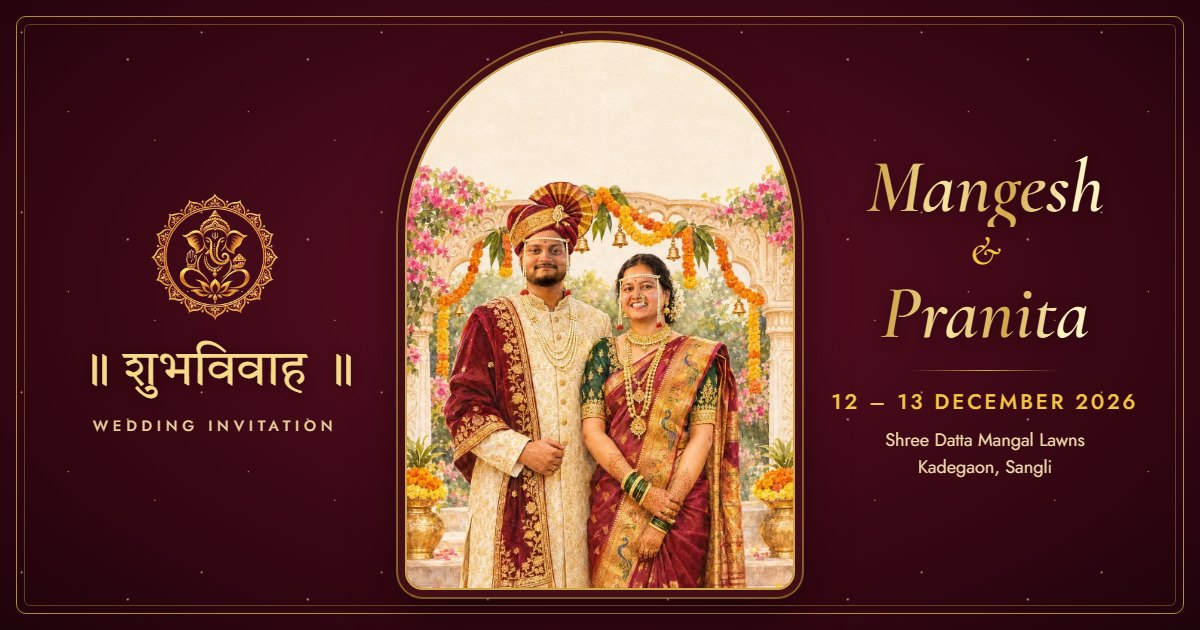
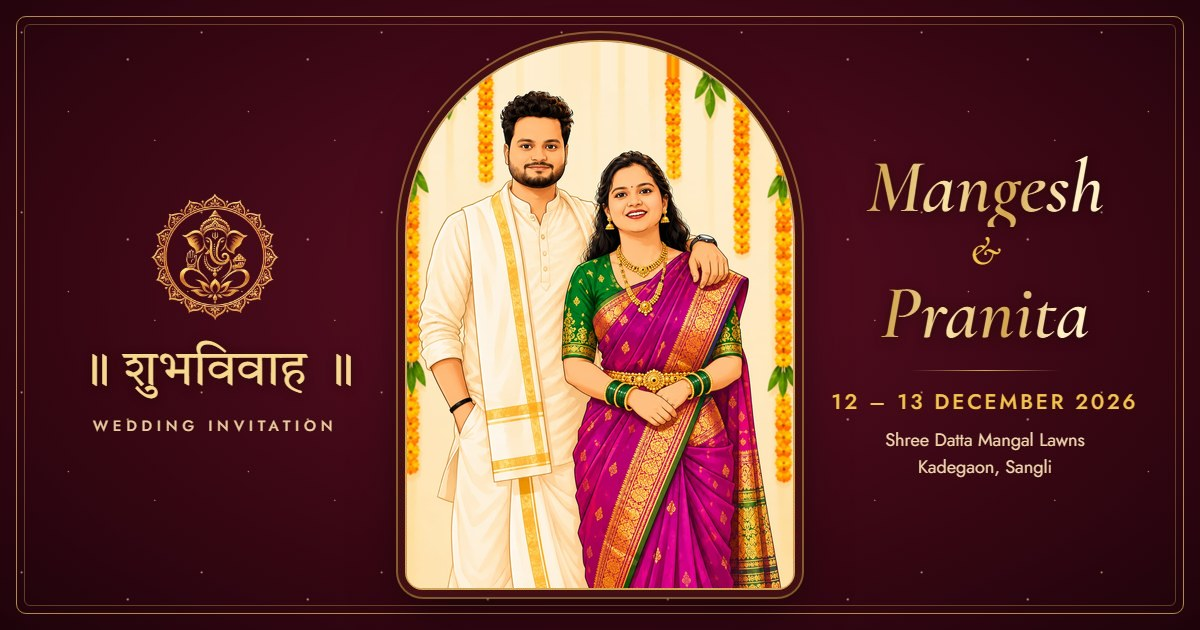
Swap couple photo for the new cartoon illustration everywhere
Hero, cover doors, showcase, footer circle and preview.jpg; og/twitter image cache-bust ?v=4; portrait ratio 1.70; drop CSS side garlands, add top fade; tuned footer crop and Ken Burns origin.

Claude-Session: https://claude.ai/code/session_015rcj17Yc5MohSb4XPMYcBe

Changed region(s): [[0.3392, 0.0603, 0.6783, 0.9349]]

diff --git a/index.html b/index.html
@@ -16,16 +16,16 @@
 <meta property="og:title" content="शुभविवाह · Mangesh &amp; Pranita">
 <meta property="og:description" content="You are warmly invited! 12–13 December 2026 • Shree Datta Mangal Lawns, Kadegaon, Sangli. Tap to open your invitation.">
 <meta property="og:url" content="https://vv8446931264-max.github.io/Mangesh-and-pranita/">
-<meta property="og:image" content="https://vv8446931264-max.github.io/Mangesh-and-pranita/preview.jpg">
-<meta property="og:image:secure_url" content="https://vv8446931264-max.github.io/Mangesh-and-pranita/preview.jpg">
+<meta property="og:image" content="https://vv8446931264-max.github.io/Mangesh-and-pranita/preview.jpg?v=4">
+<meta property="og:image:secure_url" content="https://vv8446931264-max.github.io/Mangesh-and-pranita/preview.jpg?v=4">
 <meta property="og:image:type" content="image/jpeg">
 <meta property="og:image:width" content="1200"><meta property="og:image:height" content="630">
-<meta property="og:image:alt" content="Mangesh and Pranita in traditional Marathi wedding attire, with the wedding dates">
+<meta property="og:image:alt" content="Illustration of Mangesh and Pranita in traditional Marathi wedding attire, with the wedding dates">
 <meta name="twitter:card" content="summary_large_image">
 <meta name="twitter:title" content="शुभविवाह · Mangesh &amp; Pranita">
 <meta name="twitter:description" content="You are warmly invited! 12–13 December 2026 • Shree Datta Mangal Lawns, Kadegaon, Sangli. Tap to open your invitation.">
-<meta name="twitter:image" content="https://vv8446931264-max.github.io/Mangesh-and-pranita/preview.jpg">
-<link rel="image_src" href="https://vv8446931264-max.github.io/Mangesh-and-pranita/preview.jpg">
+<meta name="twitter:image" content="https://vv8446931264-max.github.io/Mangesh-and-pranita/preview.jpg?v=4">
+<link rel="image_src" href="https://vv8446931264-max.github.io/Mangesh-and-pranita/preview.jpg?v=4">
 <link rel="icon" type="image/png" sizes="192x192" href="img/icon-192.png">
 <link rel="apple-touch-icon" href="img/icon-180.png">
 <link rel="preload" as="image" href="img/doors-tall.webp" media="(max-aspect-ratio: 11/10)">
@@ -80,7 +80,7 @@
   <div class="portrait-wrap">
     <i class="hglow" aria-hidden="true"></i>
     <div class="portrait">
-      <img src="img/couple-cut.webp" width="1024" height="1536" alt="Illustration of Mangesh and Pranita in traditional Marathi attire against marigold garlands" fetchpriority="high">
+      <img src="img/couple-cut.webp" width="1086" height="1448" alt="Illustration of Mangesh and Pranita in traditional Marathi attire against marigold garlands" fetchpriority="high">
       <i class="hveil" aria-hidden="true"></i>
     </div>
     <div class="ptxt">
@@ -177,7 +177,7 @@
   <div class="couple-showcase rv-scale">
     <div class="cs-tilt">
       <div class="cs-frame">
-        <img src="img/couple.webp" width="1024" height="1536" alt="Mangesh and Pranita" loading="lazy">
+        <img src="img/couple.webp" width="1086" height="1448" alt="Mangesh and Pranita" loading="lazy">
         <span class="cs-glare" aria-hidden="true"></span>
       </div>
     </div>
@@ -207,7 +207,7 @@
 </section>
 
 <footer>
-  <div class="ft-photo"><img class="footer-couple" src="img/couple.webp" width="120" height="180" alt="" loading="lazy"></div>
+  <div class="ft-photo"><img class="footer-couple" src="img/couple.webp" width="120" height="160" alt="" loading="lazy"></div>
   <p class="mr" style="color:var(--maroon);max-width:420px;margin:auto">तरी आपण सर्वांनी सहकुटुंब-सहपरिवार उपस्थित राहावे ही नम्र विनंती.</p>
   <p style="opacity:.75;margin-top:6px">Your presence will make our celebration complete.</p>
   <div class="nm goldtxt" id="signoff"></div>

diff --git a/css/style.css b/css/style.css
@@ -135,7 +135,7 @@ html.scrolled .scrollcue{opacity:0!important;pointer-events:none}
 .contact span{font:500 .92rem 'Jost',sans-serif;letter-spacing:.06em;color:var(--deep)}
 footer{text-align:center;padding:48px 20px 110px;background:linear-gradient(#fff4e2,#ffdcc2)}
 .footer-couple{display:block;width:100px;height:auto;margin:0 auto 18px;border-radius:50%;border:2px solid rgba(200,146,31,.6);
-  box-shadow:0 8px 24px rgba(139,30,63,.18);object-fit:cover;object-position:50% 20%}
+  box-shadow:0 8px 24px rgba(139,30,63,.18);object-fit:cover;object-position:50% 12%}
 footer .nm{font:italic 500 3rem/1.2 'Cormorant Garamond',serif;margin-top:12px}
 .rv{opacity:0;transform:translateY(28px);transition:opacity .9s cubic-bezier(.16,1,.3,1),transform .9s cubic-bezier(.16,1,.3,1)}
 .rv.show{opacity:1;transform:none}
@@ -174,7 +174,7 @@ footer .nm{font:italic 500 3rem/1.2 'Cormorant Garamond',serif;margin-top:12px}
 
 /* ---------- Hero portrait: the couple under an arch, their names in the painted sky ---------- */
 .portrait-wrap{position:relative;margin:16px auto 0;container-type:inline-size;
-  width:min(100%,440px,calc((100vh - 272px) / 1.87));width:min(100%,440px,calc((100svh - 272px) / 1.87));min-width:min(100%,280px)}   /* fits the screen with room for the scroll cue */
+  width:min(100%,440px,calc((100vh - 272px) / 1.70));width:min(100%,440px,calc((100svh - 272px) / 1.70));min-width:min(100%,280px)}   /* fits the screen with room for the scroll cue */
 .portrait{position:relative;overflow:hidden;
   background:radial-gradient(ellipse at 50% 62%,#fffdf4 0%,#ffeccf 52%,#ffd2b8 100%);
   border-radius:50% 50% 22px 22px / 20% 20% 22px 22px;border:1.5px solid rgba(200,146,31,.7)}
@@ -183,10 +183,7 @@ footer .nm{font:italic 500 3rem/1.2 'Cormorant Garamond',serif;margin-top:12px}
   box-shadow:0 0 0 6px #fffaf0,0 0 0 7.5px rgba(200,146,31,.45),0 26px 60px rgba(139,30,63,.28)}
 .portrait-wrap.drawn::before{box-shadow:0 0 0 6px #fffaf0,0 26px 60px rgba(139,30,63,.28)}
 .portrait::before{content:'';display:block;aspect-ratio:100/36}   /* clear space above the couple, for the names */
-.portrait::after{content:'';position:absolute;top:24%;bottom:0;left:0;right:0;z-index:0;pointer-events:none;opacity:.95;   /* marigold garlands down both sides, in the theme colours */
-  background:radial-gradient(circle,#e8730c 0 2.2px,#f4a300 2.6px 6.2px,transparent 6.8px) left 4% top 0/17px 17px repeat-y,radial-gradient(circle,#e8730c 0 2.2px,#f4a300 2.6px 6.2px,transparent 6.8px) right 4% top 0/17px 17px repeat-y;
-  -webkit-mask-image:linear-gradient(#000 55%,transparent);mask-image:linear-gradient(#000 55%,transparent)}
-.portrait img{display:block;position:relative;z-index:1;width:100%;height:auto;filter:drop-shadow(0 10px 16px rgba(120,40,40,.28))}
+.portrait img{display:block;position:relative;z-index:1;width:100%;height:auto;-webkit-mask-image:linear-gradient(#0000,#000 7%);mask-image:linear-gradient(#0000,#000 7%);filter:drop-shadow(0 10px 16px rgba(120,40,40,.28))}
 .ptxt{position:absolute;left:2%;right:2%;top:0;height:36%;padding-top:9%;height:36cqw;padding-top:9cqw;z-index:2;display:flex;flex-direction:column;align-items:center;justify-content:center;overflow:visible}
 .ptxt .invite{margin:0;font-size:.58rem;letter-spacing:.12em;max-width:96%;text-align:center}
 .ptxt .names{font-size:clamp(1.7rem,8vw,3.2rem);font-size:clamp(1.7rem,10.5cqw,3.2rem);margin:4px 0 0;white-space:nowrap}

diff --git a/css/sections.css b/css/sections.css
@@ -54,7 +54,7 @@
 .cs-tilt{position:relative;width:min(100%,340px);margin:0 auto;transform-style:preserve-3d;will-change:auto}
 .cs-tilt.live{will-change:transform}
 .cs-tilt .cs-frame{width:100%}
-.cs-frame img{transform-origin:50% 40%}
+.cs-frame img{transform-origin:46% 20%}
 .cs-tilt.live .cs-frame img{animation:kb 28s var(--ease-in-out) infinite alternate}
 @keyframes kb{from{transform:scale(1.02) translate(0,0)}to{transform:scale(1.11) translate(-1.5%,-1.8%)}}
 .cs-glare{position:absolute;inset:0;z-index:3;pointer-events:none;border-radius:inherit;overflow:hidden}
